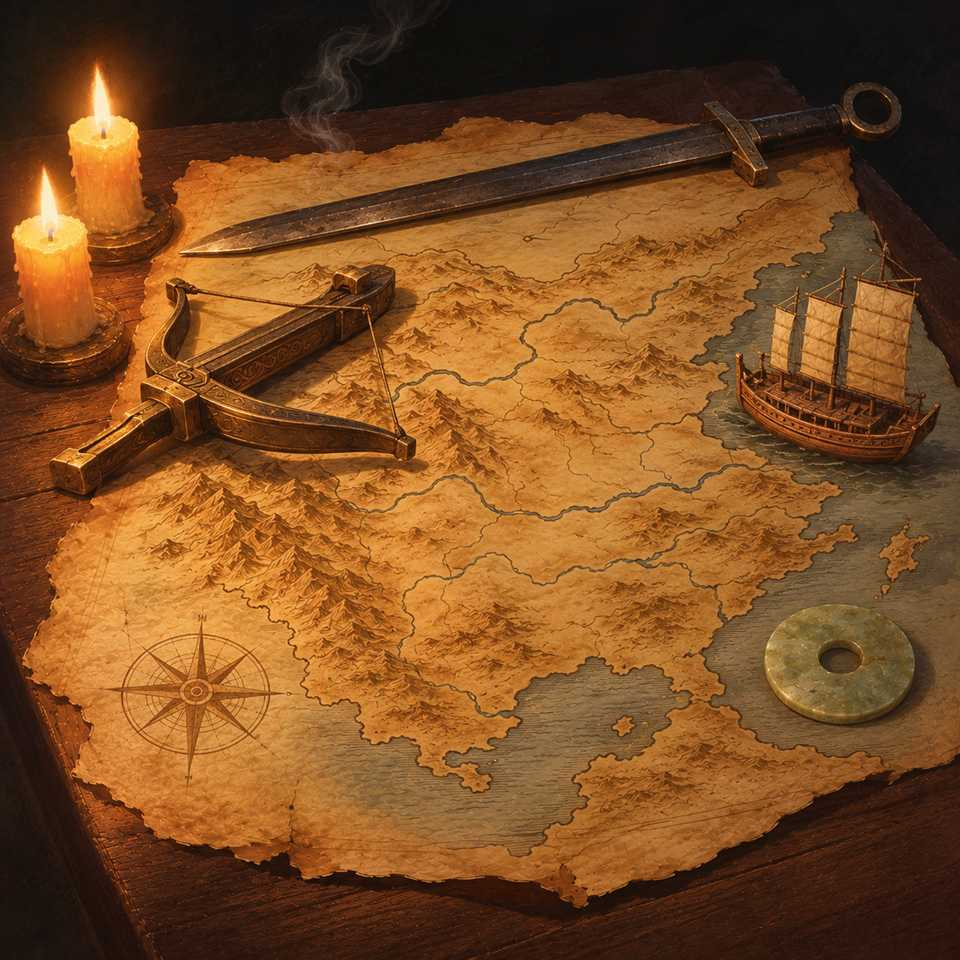
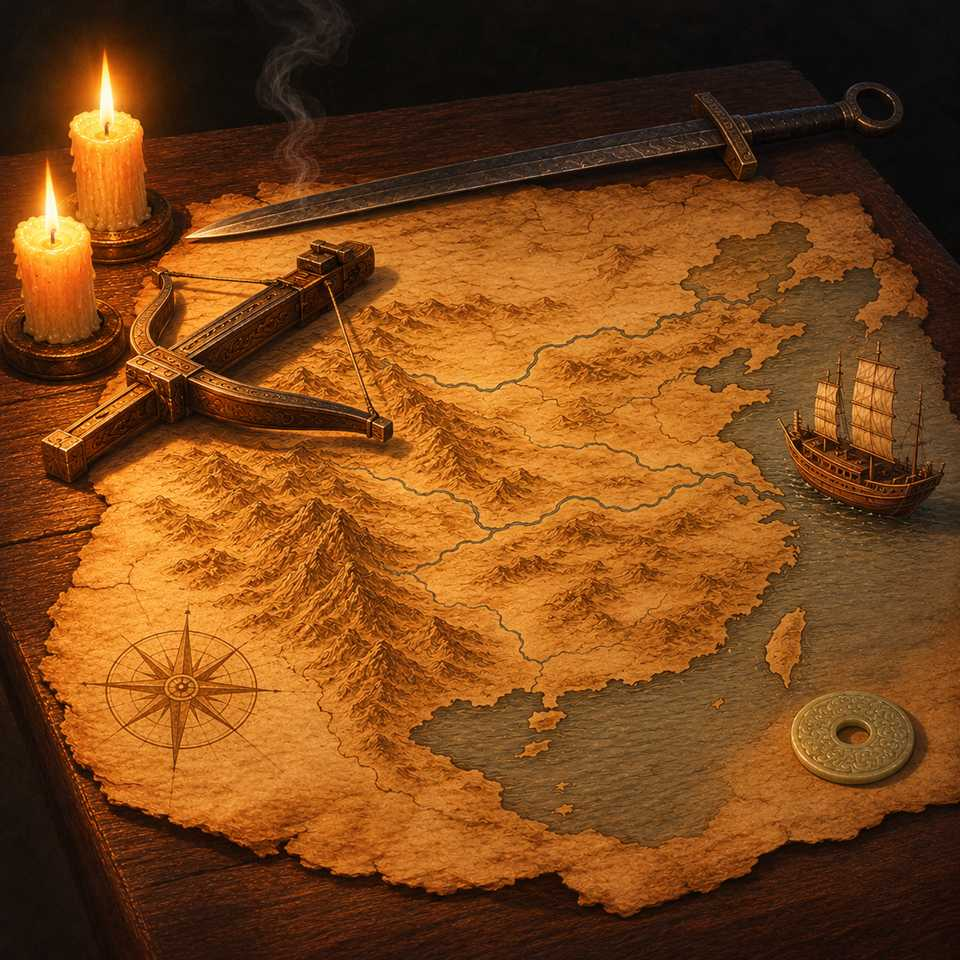
Inkariget has a picture, and De tre kongeriger a map that looks like China

diff --git a/js/togter.js b/js/togter.js
@@ -19,7 +19,7 @@ export const TOGTER = [
   { map: 'vikings', opponents: 2, home: 'dk', goal: ['dk', 'br', 'no'], bonus: 0.2, art: 'assets/togter/vikings.jpg' },
   { map: 'england', opponents: 3, home: 'nm', goal: ['wx', 'me', 'ea'], art: 'assets/togter/england.jpg' },
   { map: 'genghis', opponents: 3, home: 'mo', goal: ['xx', 'hb', 'tx'], bonus: 0.65, art: 'assets/togter/genghis.jpg' },
-  { map: 'inka', opponents: 3, home: 'hd', goal: ['ch', 'co', 'cm'], bonus: 0.5 },
+  { map: 'inka', opponents: 3, home: 'hd', goal: ['ch', 'co', 'cm'], bonus: 0.5, art: 'assets/togter/inka.jpg' },
   { map: 'constantinople', opponents: 3, home: 'an', goal: ['tr', 'gr', 'sr'], bonus: 0.5 },
   { map: 'songhai', opponents: 3, home: 'so', goal: ['nb', 'nd'], plusOne: true, bonus: 0.6 },
   { map: 'akbar', opponents: 3, home: 'pj', goal: ['hi', 'rj', 'gu'], bonus: 0.6 },

diff --git a/LICENSES.md b/LICENSES.md
@@ -8,7 +8,7 @@ Alt i spillet er lavet til spillet, undtagen:
 | `assets/paper.jpg` | Papirtekstur (Paper 003, farvebilledet) | [ambientCG](https://ambientcg.com/view?id=Paper003) | [CC0](https://creativecommons.org/publicdomain/zero/1.0/) |
 | `assets/music/theme.mp3` | Temamusikken "Rulers of the Map – Theme" | Lavet med AI hos [Abracadabrax](https://abracadabrax.app), model "Abracadabrax Instrumental" (Stable Audio), 1/11-2026 | Vores til kommerciel brug: modellen er mærket "cleared for commercial use", og [vilkårene](https://abracadabrax.app/terms) giver ejerskab og kommerciel brug (læst 1/11-2026) |
 | `assets/togter/italy.jpg`, `alexander.jpg`, `vikings.jpg` | Billederne bag togternes årstal (Rom, Alexander, Vikingetogtet) | Lavet med AI hos Abracadabrax, model Seedream 4.5 (ByteDance), 1/11-2026, gjort mindre til 960 px, AI'ens opdigtede ord visket ud | Som musikken: ejerskab og kommerciel brug efter Abracadabrax' vilkår og FAQ (læst 1/11-2026) |
-| `assets/togter/liberation.jpg`, `west.jpg`, `england.jpg`, `threekingdoms.jpg`, `genghis.jpg` | Billederne bag de øvrige togters årstal (Befrielsen, Vesten, England, De tre kongeriger, Djengis Khan) | Lavet med AI i ChatGPT (OpenAI) med vores billeder som stilforlæg, 2.–3/11-2026, gjort mindre til 960 px, AI'ens opdigtede ord visket ud, hvor der var nogen | Vores: OpenAIs [vilkår for Europa](https://openai.com/policies/eu-terms-of-use/) giver brugeren ejerskab til det, der laves, også kommercielt (læst 2/11-2026) |
+| `assets/togter/liberation.jpg`, `west.jpg`, `england.jpg`, `threekingdoms.jpg`, `genghis.jpg`, `inka.jpg` | Billederne bag de øvrige togters årstal (Befrielsen, Vesten, England, De tre kongeriger, Djengis Khan, Inka) | Lavet med AI i ChatGPT (OpenAI) med vores billeder som stilforlæg, 2.–4/11-2026, gjort mindre til 960 px, AI'ens opdigtede ord visket ud, hvor der var nogen | Vores: OpenAIs [vilkår for Europa](https://openai.com/policies/eu-terms-of-use/) giver brugeren ejerskab til det, der laves, også kommercielt (læst 2/11-2026) |
 
 Kortet, kystlinjerne, kortsymbolerne og lydene er tegnet og lavet i koden.
 
